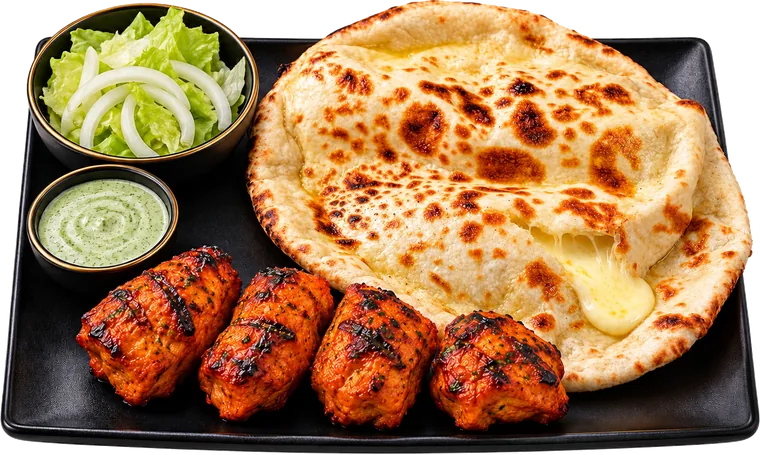
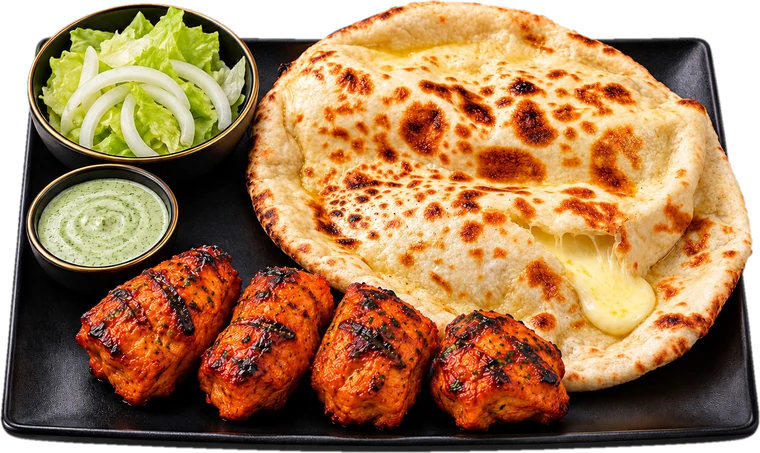
Photos HD détourées pour 15 plats supplémentaires
Claude-Session: https://claude.ai/code/session_017WVysqERD8GsLfZDzdbQ6X

diff --git a/js/data.js b/js/data.js
@@ -35,12 +35,12 @@ export const MENU = [
   {
     id: 'specialites', nom: 'Spécialités', titre: 'Les plats',
     items: [
-      { nom: 'Assiette mixte', prix: 14, img: P + 'assiette-mixte.jpg', badge: 'Notre spécialité' },
+      { nom: 'Assiette mixte', prix: 14, img: P + 'assiette-mixte.webp', badge: 'Notre spécialité' },
       { nom: 'Kabuli palaw', prix: 10, img: P + 'kabuli-palaw.jpg' },
       { nom: 'Mantou', prix: 10, img: P + 'mantou.webp' },
       { nom: 'Biryani', prix: 8, img: P + 'biryani.jpg' },
-      { nom: 'Assiette poulet kebab', prix: 9, img: P + 'assiette-poulet-kebab.jpg' },
-      { nom: 'Chapli kebab + 2 naans nature & boisson 33cl', prix: 10, img: P + 'chapli-kebab.jpg' },
+      { nom: 'Assiette poulet kebab', prix: 9, img: P + 'assiette-poulet-kebab.webp' },
+      { nom: 'Chapli kebab + 2 naans nature & boisson 33cl', prix: 10, img: P + 'chapli-kebab.webp' },
       { nom: 'Poisson avec riz', prix: 9, img: P + 'poisson.webp' },
     ],
   },
@@ -48,7 +48,7 @@ export const MENU = [
     id: 'entrees', nom: 'Entrées', titre: 'Les entrées',
     items: [
       { nom: 'Naan fromage + 4 pièces poulet tikka', prix: 6, img: P + 'naan-tikka.webp' },
-      { nom: 'Seekh kebab (2 pièces)', prix: 4, img: P + 'seekh-kebab.jpg' },
+      { nom: 'Seekh kebab (2 pièces)', prix: 4, img: P + 'seekh-kebab.webp' },
       { nom: 'Samossa (2 pièces)', prix: 3, img: P + 'samossa.jpg' },
       { nom: 'Schante samossa (2 pièces)', prix: 4, img: P + 'schante-samossa.jpg' },
       { nom: 'Poulet tandoori', prix: 3, img: P + 'poulet-tandoori.webp' },
@@ -61,19 +61,19 @@ export const MENU = [
     items: [
       { nom: 'Paya pacha / pied de bœuf', prix: 8, img: P + 'paya.webp' },
       { nom: 'Kurma + naan', prix: 8, img: P + 'kurma.jpg' },
-      { nom: 'Keema + naan', prix: 8, img: P + 'keema.jpg' },
-      { nom: 'Kofta + naan', prix: 8, img: P + 'kofta.jpg' },
+      { nom: 'Keema + naan', prix: 8, img: P + 'keema.webp' },
+      { nom: 'Kofta + naan', prix: 8, img: P + 'kofta.webp' },
       { nom: 'Poulet korma + naan', prix: 8, img: P + 'poulet-korma.jpg' },
-      { nom: 'Veau kurma + naan', prix: 12, img: P + 'veau-kurma.jpg' },
+      { nom: 'Veau kurma + naan', prix: 12, img: P + 'veau-kurma.webp' },
       { nom: 'Depiaza + naan', prix: 12, img: P + 'depiaza.jpg' },
-      { nom: 'Foie de bœuf + naan', prix: 8, img: P + 'foie.jpg' },
+      { nom: 'Foie de bœuf + naan', prix: 8, img: P + 'foie.webp' },
       { nom: 'Épinards + naan', prix: 8, img: P + 'epinards.jpg' },
       { nom: 'Bamia + naan', prix: 8, img: P + 'bamia.webp' },
-      { nom: 'Chou-fleur + naan', prix: 8, img: P + 'chou-fleur.jpg' },
-      { nom: 'Haricots rouges + naan', prix: 8, img: P + 'haricots.jpg' },
-      { nom: 'Pois chiches + naan', prix: 8, img: P + 'pois-chiches.jpg' },
+      { nom: 'Chou-fleur + naan', prix: 8, img: P + 'chou-fleur.webp' },
+      { nom: 'Haricots rouges + naan', prix: 8, img: P + 'haricots.webp' },
+      { nom: 'Pois chiches + naan', prix: 8, img: P + 'pois-chiches.webp' },
       { nom: 'Lentilles + naan', prix: 8, img: P + 'lentilles.jpg' },
-      { nom: 'Riz avec sauce au choix', prix: 8, img: P + 'riz-sauce.jpg' },
+      { nom: 'Riz avec sauce au choix', prix: 8, img: P + 'riz-sauce.webp' },
       { nom: 'Riz blanc', prix: 4, img: P + 'riz-blanc.webp' },
     ],
   },
@@ -81,7 +81,7 @@ export const MENU = [
     id: 'karahi', nom: 'Karahi', titre: 'Karahi', note: 'Servis avec naan',
     items: [
       { nom: 'Karahi poulet + naan', prix: 25, img: P + 'karahi-poulet.jpg' },
-      { nom: 'Karahi agneau + naan', prix: 35, img: P + 'karahi-agneau.jpg' },
+      { nom: 'Karahi agneau + naan', prix: 35, img: P + 'karahi-agneau.webp' },
       { nom: 'Karahi poulet tikka + naan', prix: 30, img: P + 'karahi-tikka.webp' },
     ],
   },
@@ -96,10 +96,10 @@ export const MENU = [
   {
     id: 'naans', nom: 'Naans & soupe', titre: 'Naans & soupe', liste: true, photo: P + 'naans-soupe.jpg',
     items: [
-      { nom: 'Bolani', prix: 2 },
+      { nom: 'Bolani', prix: 2, img: P + 'bolani.webp' },
       { nom: 'Afghani naan', prix: 1.5 },
       { nom: 'Naan nature', prix: 1 },
-      { nom: 'Naan fromage', prix: 2.5 },
+      { nom: 'Naan fromage', prix: 2.5, img: P + 'naan-fromage.webp' },
       { nom: 'Afghani soupe', prix: 5 },
     ],
   },
@@ -121,7 +121,7 @@ export const MENU = [
 // ─────────────────────────────────────────────────────────────
 
 // Plats qui défilent en haut de page (photos détourées uniquement).
-export const DEFILE = ['Karahi poulet tikka + naan', 'Mantou', 'Poisson avec riz',
+export const DEFILE = ['Karahi poulet tikka + naan', 'Assiette mixte', 'Mantou', 'Poisson avec riz',
                        '10 wings + frites & boisson 33cl', 'Naan fromage + 4 pièces poulet tikka'];
 
 // Les incontournables. ⚠ Textes de présentation à valider par le restaurant.
